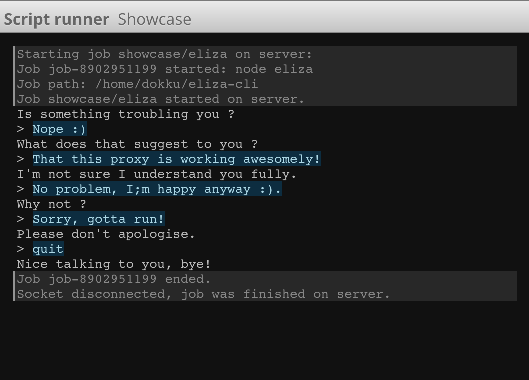
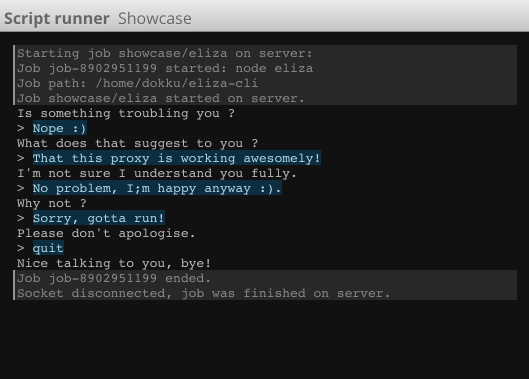
+ retina images

diff --git a/public/css/style.css b/public/css/style.css
@@ -1,1 +1,1 @@
-@import url(http://fonts.googleapis.com/css?family=Open+Sans:400,700);.no-mp{margin:0;padding:0}html,body{margin:0;padding:0;width:100%;height:100%}body{font-family:'Open Sans',sans-serif}header h1 a,.menu a{color:#666;text-shadow:0 1px rgba(255,255,255,0.25);text-decoration:none}header h1 a:hover,.menu a:hover{color:#000}header{background-color:#d8d8d8;background-image:-webkit-gradient(linear, left top, left bottom, from(#ebebeb), to(#c4c4c4));background-image:-webkit-linear-gradient(top, #ebebeb, #c4c4c4);background-image:-moz-linear-gradient(top, #ebebeb, #c4c4c4);background-image:-ms-linear-gradient(top, #ebebeb, #c4c4c4);background-image:-o-linear-gradient(top, #ebebeb, #c4c4c4);border-bottom:1px solid #888;padding:4px;height:2em;box-sizing:border-box}header h1{margin:0;padding:0;font-size:1em}header h1,header ul{display:inline-block}ul.menu-horizontal{margin:0;padding:0}ul.menu-horizontal li{margin:0;padding:0;display:inline-block}ul.menu-horizontal li a{display:inline-block;padding:0.2em 0.5em}pre.error{white-space:pre-wrap;word-wrap:break-word}#content{padding:2em}#content .message img{width:529px;height:380px}#content h2{margin:0}#content code{display:block;background:#f8f8f8;padding:1em;font-size:85%}#console{font-family:monospace;padding:1em;z-index:10;position:absolute;top:0;bottom:0;left:0;right:0;overflow-y:scroll;-webkit-overflow-scrolling:touch;background:#111;color:#bbb;white-space:pre-wrap;word-wrap:break-word}#console.console-flash{background:#666}#console .line{padding-left:4px;padding-right:4px}#console .line.line-stderr{color:#ff0000;background:rgba(255,0,0,0.1)}#console .line.line-info{color:#888;background:rgba(255,255,255,0.1);box-shadow:inset 2px 0 rgba(255,255,255,0.5)}#console .line.line-warning{color:#848400;background:rgba(255,255,0,0.1);box-shadow:inset 2px 0 rgba(255,255,0,0.5)}#console .line.line-error{color:#ff0000;background:rgba(255,0,0,0.1);box-shadow:inset 2px 0 rgba(255,0,0,0.5)}#console .line .input-buffer{display:inline;color:lightblue;background:rgba(0,162,255,0.2)}#console .line .input-buffer.input-buffer-sent{color:lightblue;background:rgba(0,162,255,0.2)}.console-wrapper{z-index:1;position:absolute;top:2em;bottom:0;left:0;right:0}.console-wrapper .overlay{z-index:100;position:absolute;top:0;bottom:0;left:0;right:0;background:rgba(255,255,255,0.2);overflow-y:auto}ul.job-variants{border-radius:4px;background:#d8d8d8;box-shadow:0 10px 32px rgba(0,0,0,0.5);max-width:20em;margin:3em auto 3em auto;padding:2em;text-align:center}ul.job-variants li{list-style:none;margin:0;padding:0}ul.job-variants li a{display:block;text-decoration:none;padding:1em 2em;margin-bottom:1em;background-color:#eee;background-image:-webkit-gradient(linear, left top, left bottom, from(#fff), to(#ddd));background-image:-webkit-linear-gradient(top, #fff, #ddd);background-image:-moz-linear-gradient(top, #fff, #ddd);background-image:-ms-linear-gradient(top, #fff, #ddd);background-image:-o-linear-gradient(top, #fff, #ddd);box-shadow:inset 0 1px rgba(255,255,255,0.5),inset 0 -1px rgba(0,0,0,0.25);border-radius:4px;color:#1c4779}ul.job-variants li a .title{font-weight:bold;font-size:1.25em}ul.job-variants li a .description{color:#4a4a4a;display:block}ul.job-variants li a.secondary .title,ul.job-variants li a.secondary .description{font-size:80%}ul.job-variants li a:hover{background-color:#f1f1f1;background-image:-webkit-gradient(linear, left top, left bottom, from(#fff), to(#e2e2e2));background-image:-webkit-linear-gradient(top, #fff, #e2e2e2);background-image:-moz-linear-gradient(top, #fff, #e2e2e2);background-image:-ms-linear-gradient(top, #fff, #e2e2e2);background-image:-o-linear-gradient(top, #fff, #e2e2e2);color:#122f50;box-shadow:inset 0 1px #fff,inset 0 -1px rgba(0,0,0,0.5)}ul.job-variants li a:hover .description{color:#313131}ul.job-variants li a:active{background-color:#e9e9e9;background-image:-webkit-gradient(linear, left top, left bottom, from(#fff), to(#d3d3d3));background-image:-webkit-linear-gradient(top, #fff, #d3d3d3);background-image:-moz-linear-gradient(top, #fff, #d3d3d3);background-image:-ms-linear-gradient(top, #fff, #d3d3d3);background-image:-o-linear-gradient(top, #fff, #d3d3d3);box-shadow:inset 0 1px rgba(0,0,0,0.25),inset 0 -1px rgba(255,255,255,0.5),inset 0 0 48px rgba(0,0,0,0.1);position:relative;top:2px}ul.job-variants li a.dangerous{background-color:#ff485c;background-image:-webkit-gradient(linear, left top, left bottom, from(#ff566e), to(#ff3a4a));background-image:-webkit-linear-gradient(top, #ff566e, #ff3a4a);background-image:-moz-linear-gradient(top, #ff566e, #ff3a4a);background-image:-ms-linear-gradient(top, #ff566e, #ff3a4a);background-image:-o-linear-gradient(top, #ff566e, #ff3a4a)}ul.job-variants li a.dangerous .title{color:#480008}ul.job-variants li a.dangerous:hover{background-color:#ff4d61;background-image:-webkit-gradient(linear, left top, left bottom, from(#ff5d74), to(#ff3e4d));background-image:-webkit-linear-gradient(top, #ff5d74, #ff3e4d);background-image:-moz-linear-gradient(top, #ff5d74, #ff3e4d);background-image:-ms-linear-gradient(top, #ff5d74, #ff3e4d);background-image:-o-linear-gradient(top, #ff5d74, #ff3e4d)}ul.job-variants li a.dangerous:active{background-color:#ff4357;background-image:-webkit-gradient(linear, left top, left bottom, from(#ff5069), to(#ff3646));background-image:-webkit-linear-gradient(top, #ff5069, #ff3646);background-image:-moz-linear-gradient(top, #ff5069, #ff3646);background-image:-ms-linear-gradient(top, #ff5069, #ff3646);background-image:-o-linear-gradient(top, #ff5069, #ff3646)}.spinner{display:none;margin:100px auto;width:50px;height:30px;text-align:center;font-size:10px}.spinner>div{background-color:#333;height:100%;width:6px;display:inline-block;-webkit-animation:stretchdelay 1.2s infinite ease-in-out;animation:stretchdelay 1.2s infinite ease-in-out}.spinner .rect2{-webkit-animation-delay:-1.1s;animation-delay:-1.1s}.spinner .rect3{-webkit-animation-delay:-1s;animation-delay:-1s}.spinner .rect4{-webkit-animation-delay:-0.9s;animation-delay:-0.9s}.spinner .rect5{-webkit-animation-delay:-0.8s;animation-delay:-0.8s}@-webkit-keyframes stretchdelay{0%,40%,100%{-webkit-transform:scaleY(.4)}20%{-webkit-transform:scaleY(1)}}@keyframes stretchdelay{0%,40%,100%{transform:scaleY(.4);-webkit-transform:scaleY(.4)}20%{transform:scaleY(1);-webkit-transform:scaleY(1)}}
+@import url(http://fonts.googleapis.com/css?family=Open+Sans:400,700);.no-mp{margin:0;padding:0}html,body{margin:0;padding:0;width:100%;height:100%}body{font-family:'Open Sans',sans-serif}header h1 a,.menu a{color:#666;text-shadow:0 1px rgba(255,255,255,0.25);text-decoration:none}header h1 a:hover,.menu a:hover{color:#000}header{background-color:#d8d8d8;background-image:-webkit-gradient(linear, left top, left bottom, from(#ebebeb), to(#c4c4c4));background-image:-webkit-linear-gradient(top, #ebebeb, #c4c4c4);background-image:-moz-linear-gradient(top, #ebebeb, #c4c4c4);background-image:-ms-linear-gradient(top, #ebebeb, #c4c4c4);background-image:-o-linear-gradient(top, #ebebeb, #c4c4c4);border-bottom:1px solid #888;padding:4px;height:2em;box-sizing:border-box}header h1{margin:0;padding:0;font-size:1em}header h1,header ul{display:inline-block}ul.menu-horizontal{margin:0;padding:0}ul.menu-horizontal li{margin:0;padding:0;display:inline-block}ul.menu-horizontal li a{display:inline-block;padding:0.2em 0.5em}pre.error{white-space:pre-wrap;word-wrap:break-word}#content{padding:2em}#content h2{margin:0}#content code{display:block;background:#f8f8f8;padding:1em;font-size:85%}#console{font-family:monospace;padding:1em;z-index:10;position:absolute;top:0;bottom:0;left:0;right:0;overflow-y:scroll;-webkit-overflow-scrolling:touch;background:#111;color:#bbb;white-space:pre-wrap;word-wrap:break-word}#console.console-flash{background:#666}#console .line{padding-left:4px;padding-right:4px}#console .line.line-stderr{color:#ff0000;background:rgba(255,0,0,0.1)}#console .line.line-info{color:#888;background:rgba(255,255,255,0.1);box-shadow:inset 2px 0 rgba(255,255,255,0.5)}#console .line.line-warning{color:#848400;background:rgba(255,255,0,0.1);box-shadow:inset 2px 0 rgba(255,255,0,0.5)}#console .line.line-error{color:#ff0000;background:rgba(255,0,0,0.1);box-shadow:inset 2px 0 rgba(255,0,0,0.5)}#console .line .input-buffer{display:inline;color:lightblue;background:rgba(0,162,255,0.2)}#console .line .input-buffer.input-buffer-sent{color:lightblue;background:rgba(0,162,255,0.2)}.console-wrapper{z-index:1;position:absolute;top:2em;bottom:0;left:0;right:0}.console-wrapper .overlay{z-index:100;position:absolute;top:0;bottom:0;left:0;right:0;background:rgba(255,255,255,0.2);overflow-y:auto}ul.job-variants{border-radius:4px;background:#d8d8d8;box-shadow:0 10px 32px rgba(0,0,0,0.5);max-width:20em;margin:3em auto 3em auto;padding:2em;text-align:center}ul.job-variants li{list-style:none;margin:0;padding:0}ul.job-variants li a{display:block;text-decoration:none;padding:1em 2em;margin-bottom:1em;background-color:#eee;background-image:-webkit-gradient(linear, left top, left bottom, from(#fff), to(#ddd));background-image:-webkit-linear-gradient(top, #fff, #ddd);background-image:-moz-linear-gradient(top, #fff, #ddd);background-image:-ms-linear-gradient(top, #fff, #ddd);background-image:-o-linear-gradient(top, #fff, #ddd);box-shadow:inset 0 1px rgba(255,255,255,0.5),inset 0 -1px rgba(0,0,0,0.25);border-radius:4px;color:#1c4779}ul.job-variants li a .title{font-weight:bold;font-size:1.25em}ul.job-variants li a .description{color:#4a4a4a;display:block}ul.job-variants li a.secondary .title,ul.job-variants li a.secondary .description{font-size:80%}ul.job-variants li a:hover{background-color:#f1f1f1;background-image:-webkit-gradient(linear, left top, left bottom, from(#fff), to(#e2e2e2));background-image:-webkit-linear-gradient(top, #fff, #e2e2e2);background-image:-moz-linear-gradient(top, #fff, #e2e2e2);background-image:-ms-linear-gradient(top, #fff, #e2e2e2);background-image:-o-linear-gradient(top, #fff, #e2e2e2);color:#122f50;box-shadow:inset 0 1px #fff,inset 0 -1px rgba(0,0,0,0.5)}ul.job-variants li a:hover .description{color:#313131}ul.job-variants li a:active{background-color:#e9e9e9;background-image:-webkit-gradient(linear, left top, left bottom, from(#fff), to(#d3d3d3));background-image:-webkit-linear-gradient(top, #fff, #d3d3d3);background-image:-moz-linear-gradient(top, #fff, #d3d3d3);background-image:-ms-linear-gradient(top, #fff, #d3d3d3);background-image:-o-linear-gradient(top, #fff, #d3d3d3);box-shadow:inset 0 1px rgba(0,0,0,0.25),inset 0 -1px rgba(255,255,255,0.5),inset 0 0 48px rgba(0,0,0,0.1);position:relative;top:2px}ul.job-variants li a.dangerous{background-color:#ff485c;background-image:-webkit-gradient(linear, left top, left bottom, from(#ff566e), to(#ff3a4a));background-image:-webkit-linear-gradient(top, #ff566e, #ff3a4a);background-image:-moz-linear-gradient(top, #ff566e, #ff3a4a);background-image:-ms-linear-gradient(top, #ff566e, #ff3a4a);background-image:-o-linear-gradient(top, #ff566e, #ff3a4a)}ul.job-variants li a.dangerous .title{color:#480008}ul.job-variants li a.dangerous:hover{background-color:#ff4d61;background-image:-webkit-gradient(linear, left top, left bottom, from(#ff5d74), to(#ff3e4d));background-image:-webkit-linear-gradient(top, #ff5d74, #ff3e4d);background-image:-moz-linear-gradient(top, #ff5d74, #ff3e4d);background-image:-ms-linear-gradient(top, #ff5d74, #ff3e4d);background-image:-o-linear-gradient(top, #ff5d74, #ff3e4d)}ul.job-variants li a.dangerous:active{background-color:#ff4357;background-image:-webkit-gradient(linear, left top, left bottom, from(#ff5069), to(#ff3646));background-image:-webkit-linear-gradient(top, #ff5069, #ff3646);background-image:-moz-linear-gradient(top, #ff5069, #ff3646);background-image:-ms-linear-gradient(top, #ff5069, #ff3646);background-image:-o-linear-gradient(top, #ff5069, #ff3646)}.spinner{display:none;margin:100px auto;width:50px;height:30px;text-align:center;font-size:10px}.spinner>div{background-color:#333;height:100%;width:6px;display:inline-block;-webkit-animation:stretchdelay 1.2s infinite ease-in-out;animation:stretchdelay 1.2s infinite ease-in-out}.spinner .rect2{-webkit-animation-delay:-1.1s;animation-delay:-1.1s}.spinner .rect3{-webkit-animation-delay:-1s;animation-delay:-1s}.spinner .rect4{-webkit-animation-delay:-0.9s;animation-delay:-0.9s}.spinner .rect5{-webkit-animation-delay:-0.8s;animation-delay:-0.8s}@-webkit-keyframes stretchdelay{0%,40%,100%{-webkit-transform:scaleY(.4)}20%{-webkit-transform:scaleY(1)}}@keyframes stretchdelay{0%,40%,100%{transform:scaleY(.4);-webkit-transform:scaleY(.4)}20%{transform:scaleY(1);-webkit-transform:scaleY(1)}}

diff --git a/public/js/retina-1.3.0/retina.js b/public/js/retina-1.3.0/retina.js
@@ -1,0 +1,182 @@
+/*!
+ * Retina.js v1.3.0
+ *
+ * Copyright 2014 Imulus, LLC
+ * Released under the MIT license
+ *
+ * Retina.js is an open source script that makes it easy to serve
+ * high-resolution images to devices with retina displays.
+ */
+
+(function() {
+    var root = (typeof exports === 'undefined' ? window : exports);
+    var config = {
+        // An option to choose a suffix for 2x images
+        retinaImageSuffix : '@2x',
+
+        // Ensure Content-Type is an image before trying to load @2x image
+        // https://github.com/imulus/retinajs/pull/45)
+        check_mime_type: true,
+
+        // Resize high-resolution images to original image's pixel dimensions
+        // https://github.com/imulus/retinajs/issues/8
+        force_original_dimensions: true
+    };
+
+    function Retina() {}
+
+    root.Retina = Retina;
+
+    Retina.configure = function(options) {
+        if (options === null) {
+            options = {};
+        }
+
+        for (var prop in options) {
+            if (options.hasOwnProperty(prop)) {
+                config[prop] = options[prop];
+            }
+        }
+    };
+
+    Retina.init = function(context) {
+        if (context === null) {
+            context = root;
+        }
+
+        var existing_onload = context.onload || function(){};
+
+        context.onload = function() {
+            var images = document.getElementsByTagName('img'), retinaImages = [], i, image;
+            for (i = 0; i < images.length; i += 1) {
+                image = images[i];
+                if (!!!image.getAttributeNode('data-no-retina')) {
+                    retinaImages.push(new RetinaImage(image));
+                }
+            }
+            existing_onload();
+        };
+    };
+
+    Retina.isRetina = function(){
+        var mediaQuery = '(-webkit-min-device-pixel-ratio: 1.5), (min--moz-device-pixel-ratio: 1.5), (-o-min-device-pixel-ratio: 3/2), (min-resolution: 1.5dppx)';
+
+        if (root.devicePixelRatio > 1) {
+            return true;
+        }
+
+        if (root.matchMedia && root.matchMedia(mediaQuery).matches) {
+            return true;
+        }
+
+        return false;
+    };
+
+
+    var regexMatch = /\.\w+$/;
+    function suffixReplace (match) {
+        return config.retinaImageSuffix + match;
+    }
+
+    function RetinaImagePath(path, at_2x_path) {
+        this.path = path || '';
+        if (typeof at_2x_path !== 'undefined' && at_2x_path !== null) {
+            this.at_2x_path = at_2x_path;
+            this.perform_check = false;
+        } else {
+            if (undefined !== document.createElement) {
+                var locationObject = document.createElement('a');
+                locationObject.href = this.path;
+                locationObject.pathname = locationObject.pathname.replace(regexMatch, suffixReplace);
+                this.at_2x_path = locationObject.href;
+            } else {
+                var parts = this.path.split('?');
+                parts[0] = parts[0].replace(regexMatch, suffixReplace);
+                this.at_2x_path = parts.join('?');
+            }
+            this.perform_check = true;
+        }
+    }
+
+    root.RetinaImagePath = RetinaImagePath;
+
+    RetinaImagePath.confirmed_paths = [];
+
+    RetinaImagePath.prototype.is_external = function() {
+        return !!(this.path.match(/^https?\:/i) && !this.path.match('//' + document.domain) );
+    };
+
+    RetinaImagePath.prototype.check_2x_variant = function(callback) {
+        var http, that = this;
+        if (this.is_external()) {
+            return callback(false);
+        } else if (!this.perform_check && typeof this.at_2x_path !== 'undefined' && this.at_2x_path !== null) {
+            return callback(true);
+        } else if (this.at_2x_path in RetinaImagePath.confirmed_paths) {
+            return callback(true);
+        } else {
+            http = new XMLHttpRequest();
+            http.open('HEAD', this.at_2x_path);
+            http.onreadystatechange = function() {
+                if (http.readyState !== 4) {
+                    return callback(false);
+                }
+
+                if (http.status >= 200 && http.status <= 399) {
+                    if (config.check_mime_type) {
+                        var type = http.getResponseHeader('Content-Type');
+                        if (type === null || !type.match(/^image/i)) {
+                            return callback(false);
+                        }
+                    }
+
+                    RetinaImagePath.confirmed_paths.push(that.at_2x_path);
+                    return callback(true);
+                } else {
+                    return callback(false);
+                }
+            };
+            http.send();
+        }
+    };
+
+
+    function RetinaImage(el) {
+        this.el = el;
+        this.path = new RetinaImagePath(this.el.getAttribute('src'), this.el.getAttribute('data-at2x'));
+        var that = this;
+        this.path.check_2x_variant(function(hasVariant) {
+            if (hasVariant) {
+                that.swap();
+            }
+        });
+    }
+
+    root.RetinaImage = RetinaImage;
+
+    RetinaImage.prototype.swap = function(path) {
+        if (typeof path === 'undefined') {
+            path = this.path.at_2x_path;
+        }
+
+        var that = this;
+        function load() {
+            if (! that.el.complete) {
+                setTimeout(load, 5);
+            } else {
+                if (config.force_original_dimensions) {
+                    that.el.setAttribute('width', that.el.offsetWidth);
+                    that.el.setAttribute('height', that.el.offsetHeight);
+                }
+
+                that.el.setAttribute('src', path);
+            }
+        }
+        load();
+    };
+
+
+    if (Retina.isRetina()) {
+        Retina.init(root);
+    }
+})();

diff --git a/public/js/retina-1.3.0/retina.min.js b/public/js/retina-1.3.0/retina.min.js
@@ -1,0 +1,10 @@
+/*!
+ * Retina.js v1.3.0
+ *
+ * Copyright 2014 Imulus, LLC
+ * Released under the MIT license
+ *
+ * Retina.js is an open source script that makes it easy to serve
+ * high-resolution images to devices with retina displays.
+ */
+!function(){function a(){}function b(a){return f.retinaImageSuffix+a}function c(a,c){if(this.path=a||"","undefined"!=typeof c&&null!==c)this.at_2x_path=c,this.perform_check=!1;else{if(void 0!==document.createElement){var d=document.createElement("a");d.href=this.path,d.pathname=d.pathname.replace(g,b),this.at_2x_path=d.href}else{var e=this.path.split("?");e[0]=e[0].replace(g,b),this.at_2x_path=e.join("?")}this.perform_check=!0}}function d(a){this.el=a,this.path=new c(this.el.getAttribute("src"),this.el.getAttribute("data-at2x"));var b=this;this.path.check_2x_variant(function(a){a&&b.swap()})}var e="undefined"==typeof exports?window:exports,f={retinaImageSuffix:"@2x",check_mime_type:!0,force_original_dimensions:!0};e.Retina=a,a.configure=function(a){null===a&&(a={});for(var b in a)a.hasOwnProperty(b)&&(f[b]=a[b])},a.init=function(a){null===a&&(a=e);var b=a.onload||function(){};a.onload=function(){var a,c,e=document.getElementsByTagName("img"),f=[];for(a=0;a<e.length;a+=1)c=e[a],c.getAttributeNode("data-no-retina")||f.push(new d(c));b()}},a.isRetina=function(){var a="(-webkit-min-device-pixel-ratio: 1.5), (min--moz-device-pixel-ratio: 1.5), (-o-min-device-pixel-ratio: 3/2), (min-resolution: 1.5dppx)";return e.devicePixelRatio>1?!0:e.matchMedia&&e.matchMedia(a).matches?!0:!1};var g=/\.\w+$/;e.RetinaImagePath=c,c.confirmed_paths=[],c.prototype.is_external=function(){return!(!this.path.match(/^https?\:/i)||this.path.match("//"+document.domain))},c.prototype.check_2x_variant=function(a){var b,d=this;return this.is_external()?a(!1):this.perform_check||"undefined"==typeof this.at_2x_path||null===this.at_2x_path?this.at_2x_path in c.confirmed_paths?a(!0):(b=new XMLHttpRequest,b.open("HEAD",this.at_2x_path),b.onreadystatechange=function(){if(4!==b.readyState)return a(!1);if(b.status>=200&&b.status<=399){if(f.check_mime_type){var e=b.getResponseHeader("Content-Type");if(null===e||!e.match(/^image/i))return a(!1)}return c.confirmed_paths.push(d.at_2x_path),a(!0)}return a(!1)},b.send(),void 0):a(!0)},e.RetinaImage=d,d.prototype.swap=function(a){function b(){c.el.complete?(f.force_original_dimensions&&(c.el.setAttribute("width",c.el.offsetWidth),c.el.setAttribute("height",c.el.offsetHeight)),c.el.setAttribute("src",a)):setTimeout(b,5)}"undefined"==typeof a&&(a=this.path.at_2x_path);var c=this;b()},a.isRetina()&&a.init(e)}();

diff --git a/public/css/style.less b/public/css/style.less
@@ -84,10 +84,6 @@ pre.error {
 	padding: 2em;
 
 	.message {
-		img {
-			width: 529px;
-			height: 380px
-		}
 	}
 
 	h2 {

diff --git a/README.md b/README.md
@@ -34,6 +34,7 @@ Example jobs.js file:
 	};
 
 Uses [socket.io](http://socket.io/) to keep the link with server while job is running, kills job on server when user closes browser to prevent resource leaking.
+Jobs file is reloaded on every request, so feel free to edit it on the go.
 
 Made in Prague by [@keff85](http://twitter.com/keff85).
 
